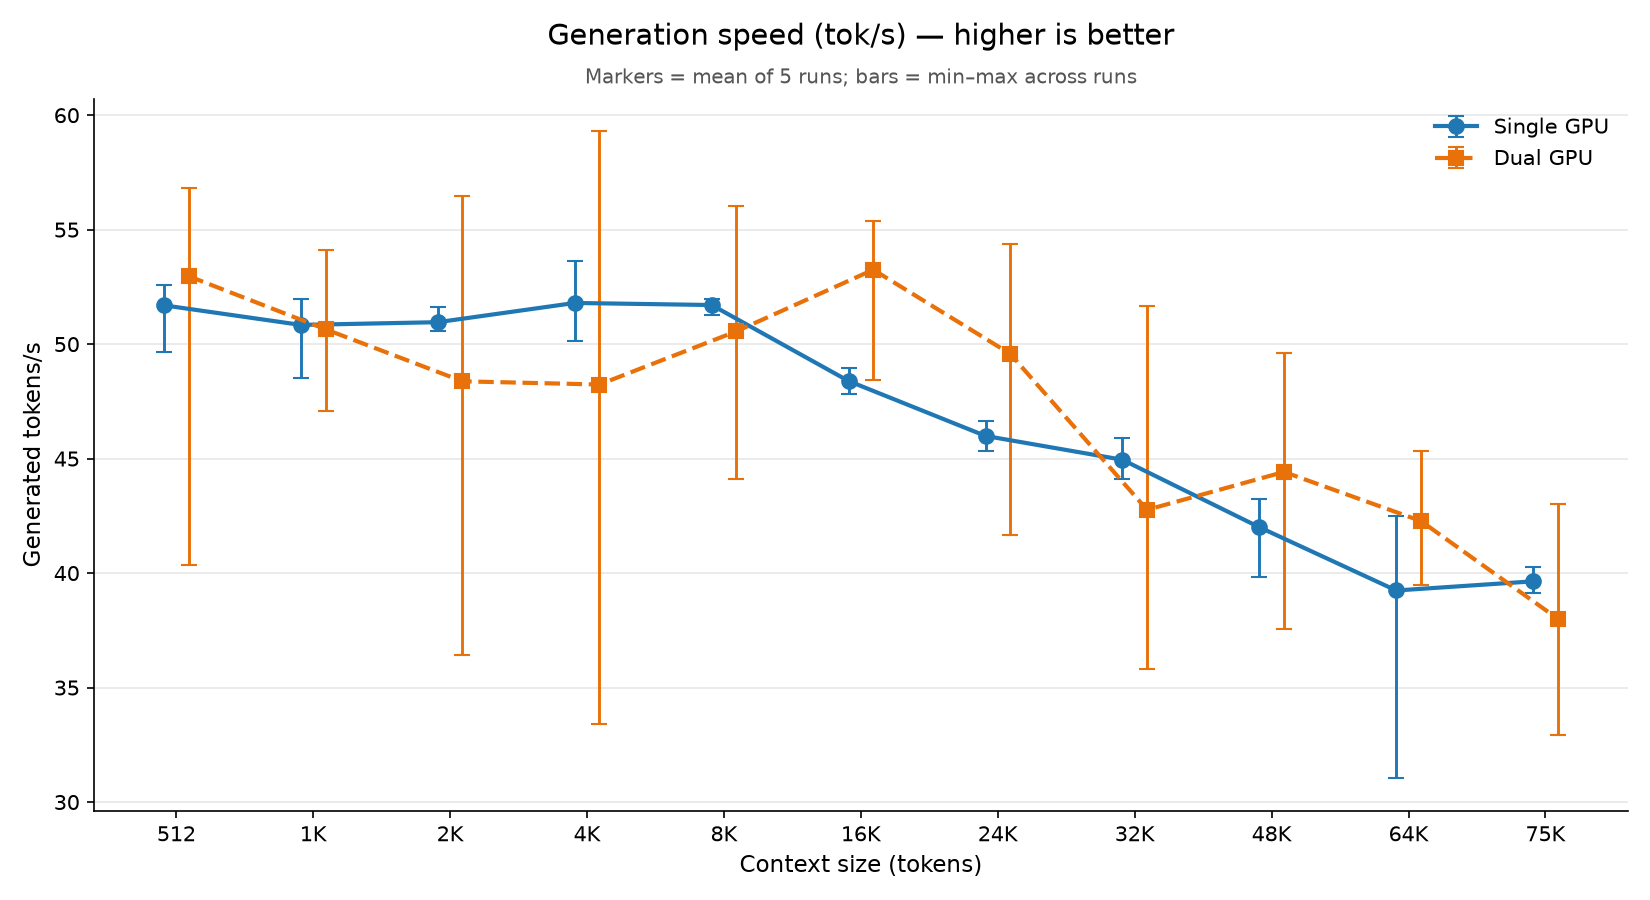
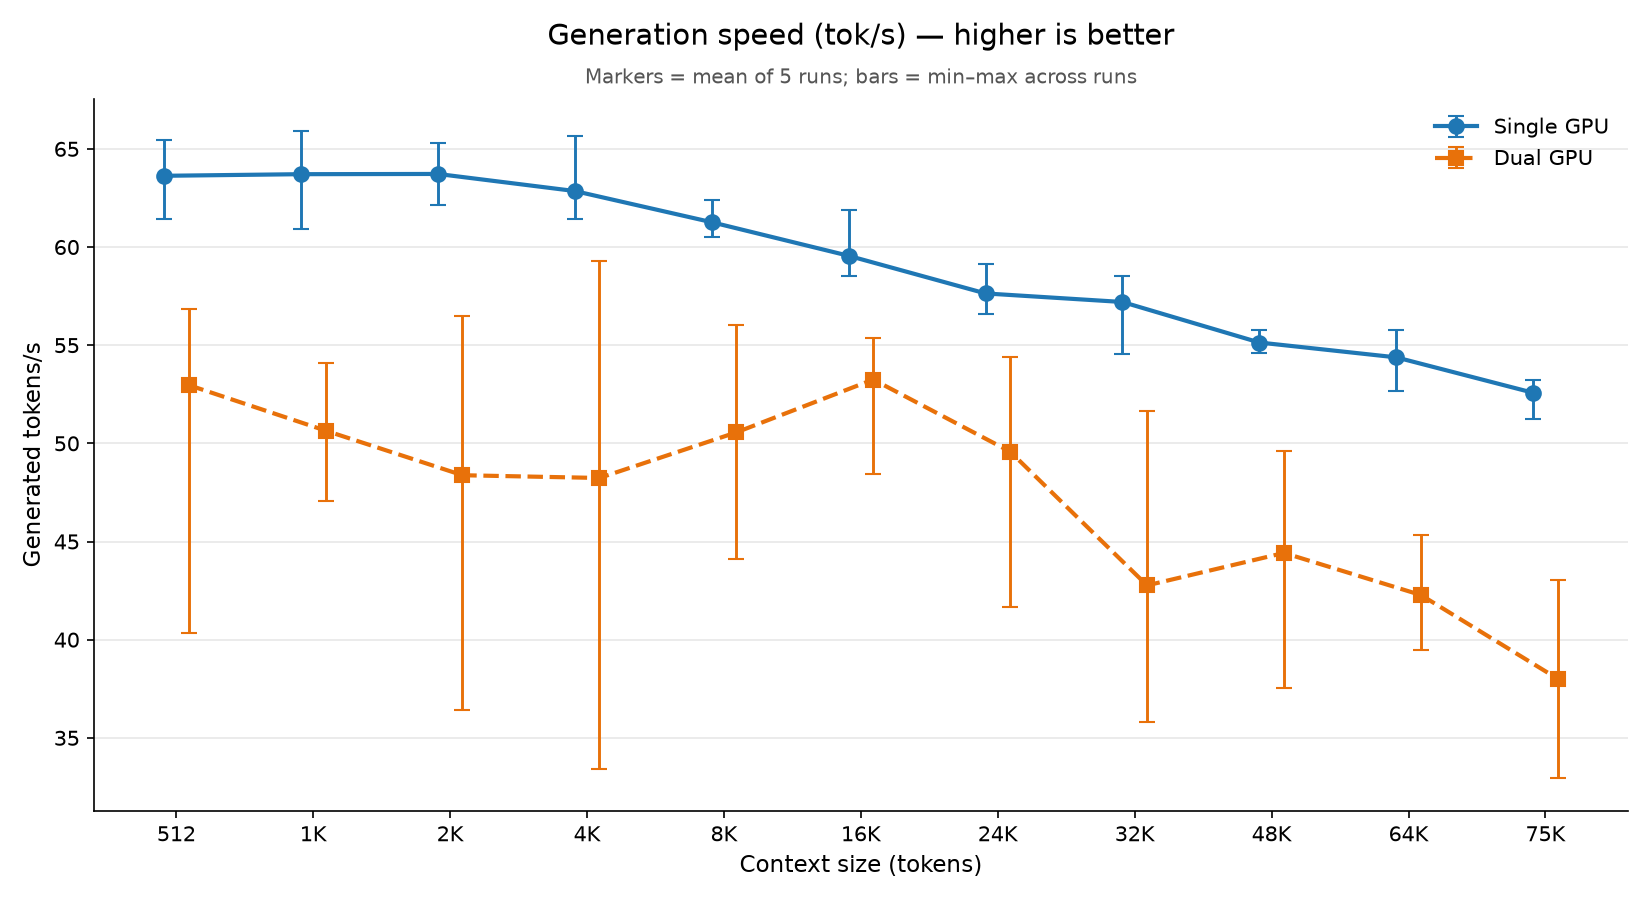
Update benchmark: single-GPU faster than dual at prompt and gen

diff --git a/README.md b/README.md
@@ -117,6 +117,8 @@ cmake --build build --config Release -j
 
 ## Benchmark results
 
+Single GPU is faster than dual-GPU over RPC at both prompt processing and generation on this hardware. Dual only makes sense when a model does not fit on one GPU.
+
 ### Setup
 
 | Component | Details |
@@ -141,17 +143,17 @@ cmake --build build --config Release -j
 
 | Context | Prompt tok/s single | dual | Change | Gen tok/s single | dual | Change |
 |---|---|---|---|---|---|---|
-| 512 | 859 | 473 | −45% | 51.7 | 53.0 | +2% |
-| 1K | 579 | 800 | +38% | 50.8 | 50.6 | 0% |
-| 2K | 665 | 994 | +49% | 51.0 | 48.4 | −5% |
-| 4K | 724 | 921 | +27% | 51.8 | 48.2 | −7% |
-| 8K | 763 | 1004 | +32% | 51.7 | 50.6 | −2% |
-| 16K | 750 | 788 | +5% | 48.4 | 53.2 | +10% |
-| 24K | 627 | 753 | +20% | 46.0 | 49.6 | +8% |
-| 32K | 609 | 701 | +15% | 45.0 | 42.8 | −5% |
-| 48K | 498 | 602 | +21% | 42.0 | 44.4 | +6% |
-| 64K | 358 | 534 | +49% | 39.2 | 42.3 | +8% |
-| 75K | 376 | 477 | +27% | 39.6 | 38.0 | −4% |
+| 512 | 1001 | 473 | −53% | 63.6 | 53.0 | −17% |
+| 1K | 1728 | 800 | −54% | 63.7 | 50.6 | −21% |
+| 2K | 2636 | 994 | −62% | 63.7 | 48.4 | −24% |
+| 4K | 2707 | 921 | −66% | 62.9 | 48.2 | −23% |
+| 8K | 2766 | 1004 | −64% | 61.3 | 50.6 | −17% |
+| 16K | 2728 | 788 | −71% | 59.6 | 53.2 | −11% |
+| 24K | 2611 | 753 | −71% | 57.6 | 49.6 | −14% |
+| 32K | 2554 | 701 | −73% | 57.2 | 42.8 | −25% |
+| 48K | 2439 | 602 | −75% | 55.1 | 44.4 | −19% |
+| 64K | 2356 | 534 | −77% | 54.4 | 42.3 | −22% |
+| 75K | 2305 | 477 | −79% | 52.6 | 38.0 | −28% |
 
 ### Visual comparison
 
@@ -167,26 +169,21 @@ Markers show the mean of 5 runs; bars show the min–max range across runs.
 
 ### Key findings
 
-1. **Dual is faster at prompt processing from 1K up** (+15% to +49%, except 16K at +5%); only at 512 tokens is single clearly faster.
-2. **Generation speed is about equal on average, but dual is less consistent.** Mean generation speed is within about ±10% between single and dual at every size, with no clear winner. Single is steady from run to run (typically within 1–3 tok/s), while dual swings widely (for example 33–59 tok/s at 4K).
-3. **Per-turn cost is roughly equal at 16K–75K** because generation dominates: at 16K single ≈ 23 s vs dual ≈ 21 s; at 32K single ≈ 25.5 s vs dual ≈ 26 s; at 75K both ≈ 30.5 s.
-4. **Cold loads of long prompts are about 20–25% faster on dual** at 48K–75K (80 s vs 107 s at 48K; 157 s vs 200 s at 75K).
-5. **The earlier 48K+ dual generation cliff (7–14 tok/s) did not reproduce** in the re-run, so it was most likely a transient problem on the worker (e.g. throttling or memory pressure) rather than a property of RPC.
+1. **Single GPU is faster at prompt processing at every context size.** Dual is 53% slower at 512 tokens, and the gap grows to 71–79% slower from 16K to 75K (about 2,300 tok/s single vs about 480 tok/s dual at 75K).
+2. **Single GPU is also faster at generation, and steadier.** Dual is 11–28% slower at every size. Single stays within about 1–2 tok/s run to run, while dual swings widely (for example 33–59 tok/s at 4K).
+3. **Per-turn cost** (2,000 new prompt tokens + 1,000 generated) favours single by 5–11 s: at 4K ≈ 16.6 s vs ≈ 22.9 s; at 16K ≈ 17.5 s vs ≈ 21.3 s; at 32K ≈ 18.3 s vs ≈ 26.2 s; at 75K ≈ 19.9 s vs ≈ 30.5 s.
+4. **Cold prompt loads are 4–5× faster on single**: 16K ≈ 6 s vs ≈ 20 s; 48K ≈ 20 s vs ≈ 80 s; 75K ≈ 32 s vs ≈ 157 s.
 
 ### Recommendation
 
-**Dual GPU is worthwhile for long-context work where prompts are processed from scratch**, and when the model does not fit on one GPU plus RAM. Dual's prompt-processing gain is roughly +15% to +50% at most sizes from 1K up (smallest at 16K, +5%), but at short contexts that saves only a second or two. It starts to matter from roughly 30K tokens, where a cold load is about 25–45 s faster (≈107 s → ≈80 s at 48K, ≈200 s → ≈157 s at 75K). Once a prompt is cached, per-turn time and generation speed are about the same on both setups.
-
-Dual has costs: it needs a second machine, depends on the LAN and the RPC worker being up before `llama-server` starts, and generation speed is less consistent. Single remains simpler, and slightly faster for very short prompts (512 tokens).
+**Default to single GPU** for this model on this hardware: it is faster at prompt processing (about 2–5× at long context), faster at generation, and steadier run to run. Dual GPU over RPC only makes sense when the model or quant does not fit on one GPU plus RAM, a case that was not tested here. Dual also needs a second machine, depends on the LAN and on the RPC worker being up before `llama-server` starts.
 
 *This applies to this model and hardware — results will vary.*
 
 ### Caveats
 
 - Filler-text prompts make absolute prompt speeds higher than real prompts — trust the ratios more than the raw numbers.
-- Single numbers were not re-run alongside the new dual run and single prompt speed was noisy at 48K+ (about 320–680 tok/s), so re-run single with the same flags before treating the gaps as exact.
 - Dual generation varies a lot between runs (standard deviation up to about 12 tok/s at 4K), whereas single is much steadier.
-
 - Results will differ on other hardware, models, and networks.
 - Dual GPU needs the RPC worker reachable on port 50052 before `llama-server` starts.
 
@@ -224,7 +221,7 @@ python benchmark/bench.py --label single --out benchmark/results-single.csv ^
   --runs 5 --gen 256 --wait
 ```
 
-On this hardware, each run takes roughly **45–60 minutes** (about 57 minutes of request time for single, about 44 for dual, plus model load and idle gaps).
+On this hardware, a single-GPU run takes roughly **15 minutes** and a dual-GPU run roughly **45 minutes** (about 13 and 44 minutes of request time, plus model load and idle gaps).
 
 ### Compare output
 
